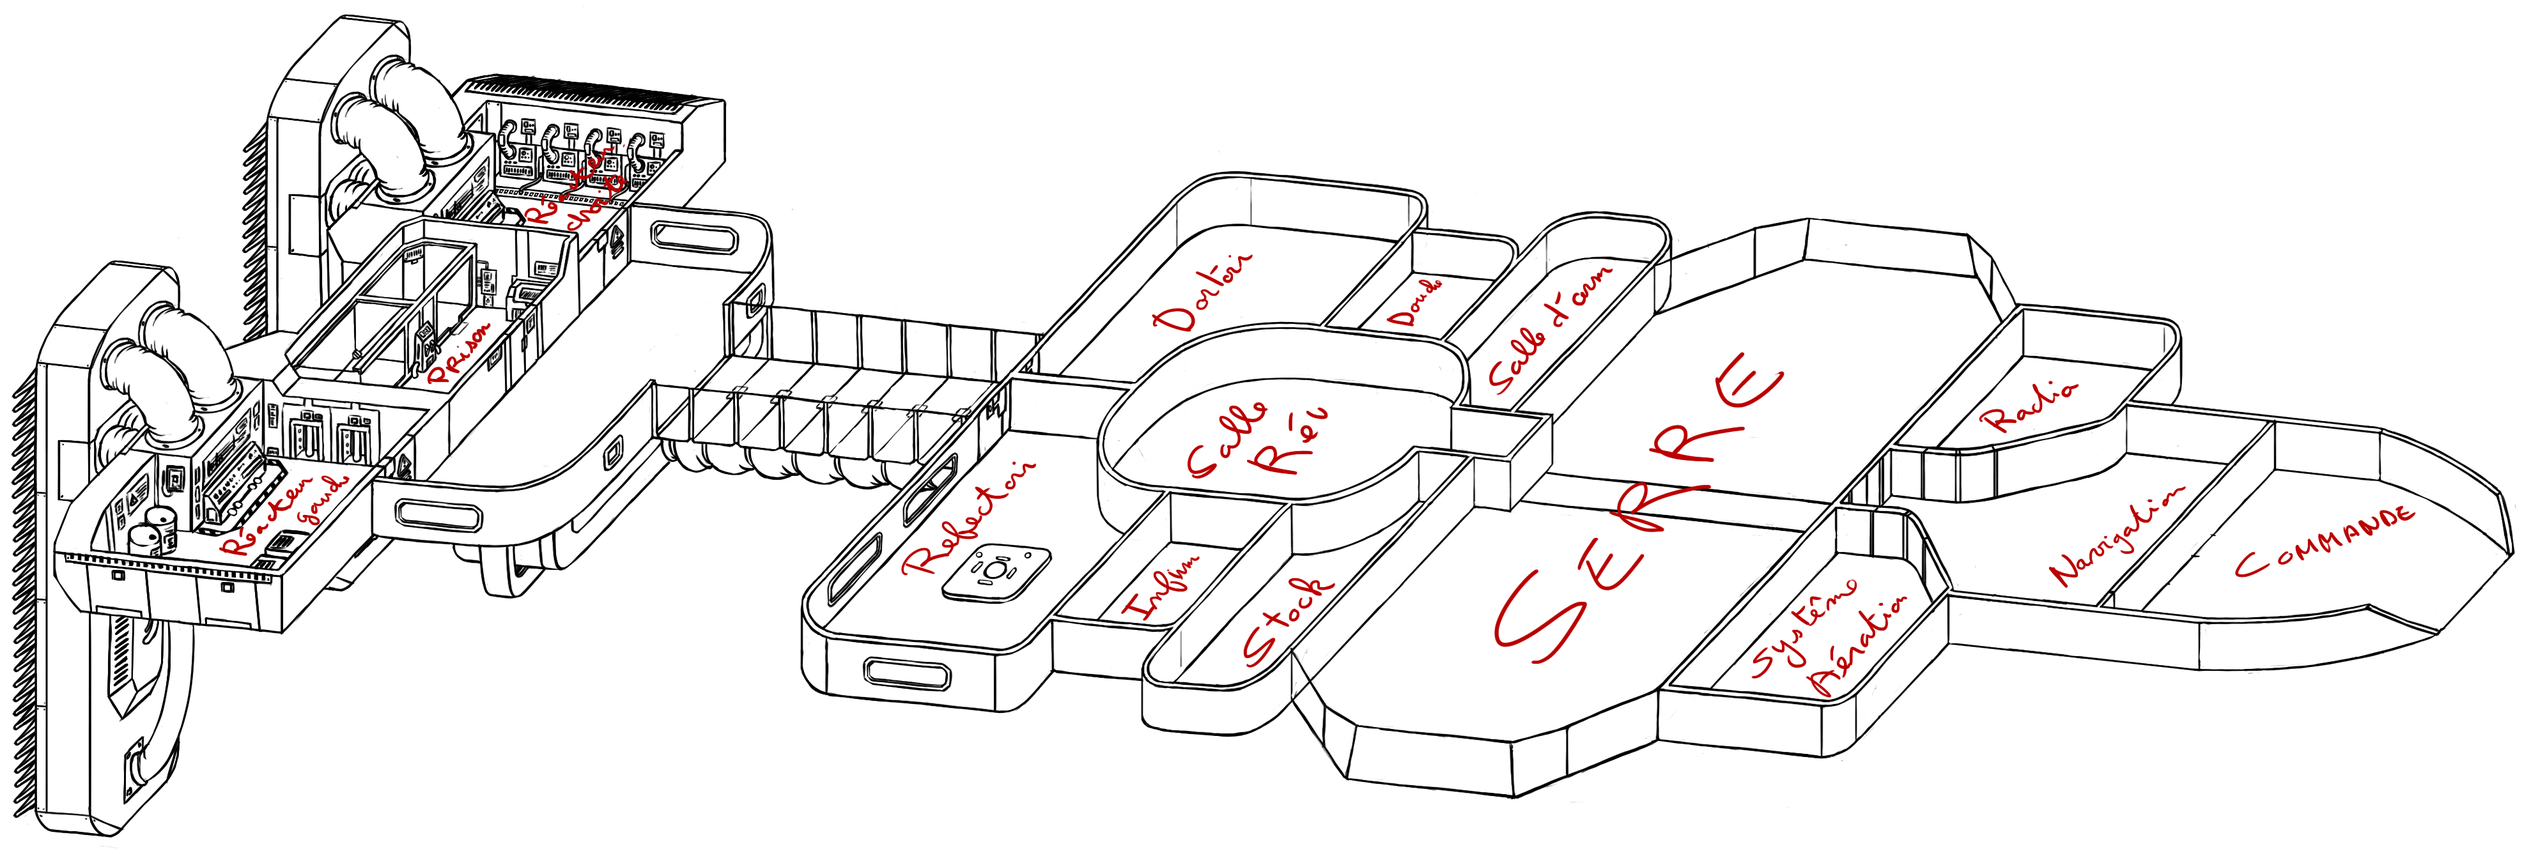
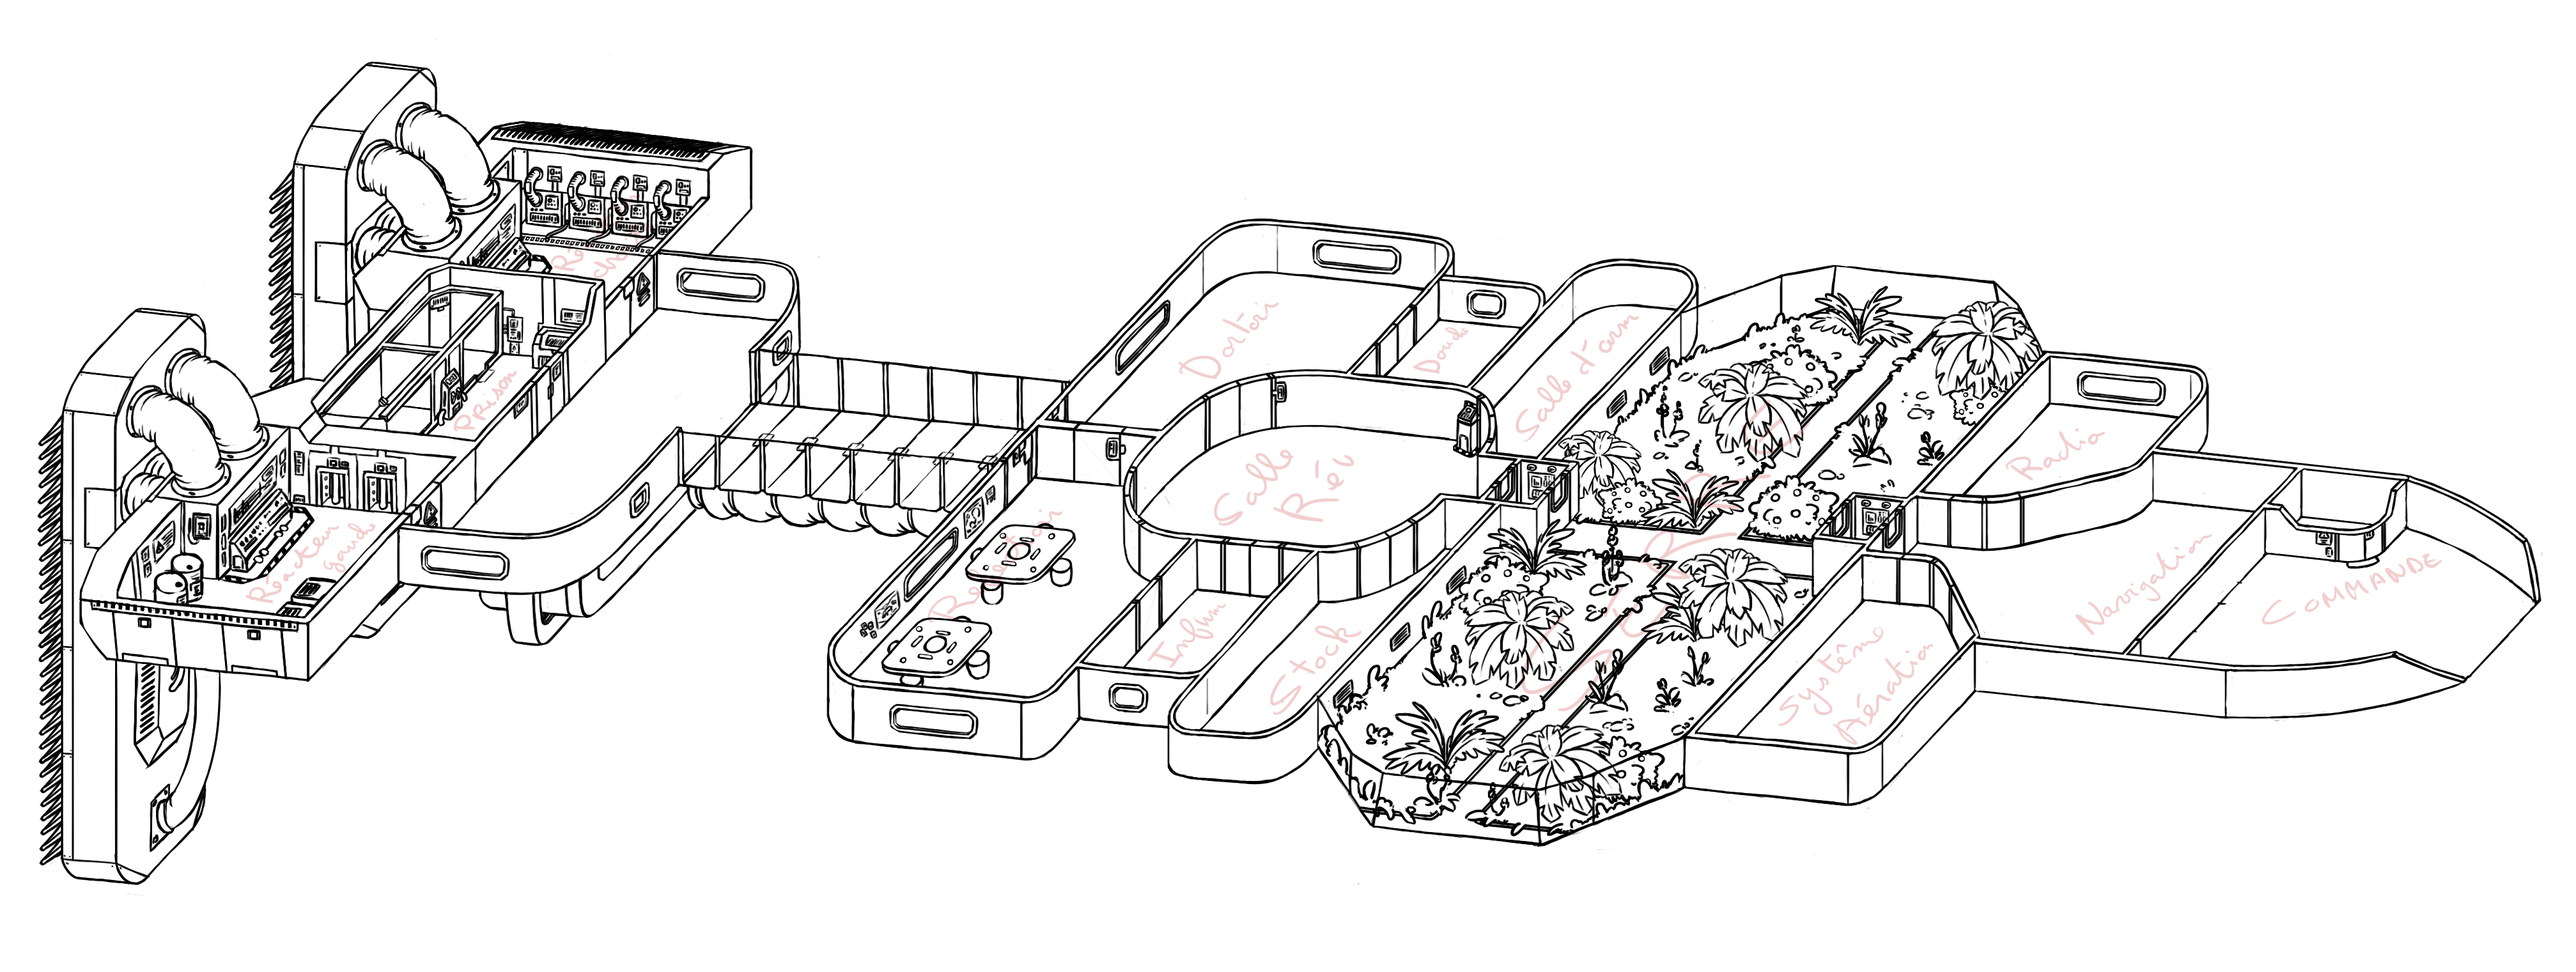
Updated map, and new crop layout

Changed region(s): [[0.0, 0.0611, 0.9939, 0.9769], [0.528, 0.8853, 0.5591, 0.9159], [0.1242, 0.0, 0.1553, 0.0305]]

diff --git a/code/bits/client/ShipEntity.cc b/code/bits/client/ShipEntity.cc
@@ -19,21 +19,21 @@ namespace {
   };
 
   std::map<ggj::PlaceType, PlaceLocation> placeLocations = {
-    { ggj::PlaceType::Armory,              { gf::RectF::fromPositionSize({ 2450.0f, 350.0f }, { 100.0f, 100.0f }), { 2450.0f, 350.0f }, { 100.0f, 100.0f }, { 2450.0f, 350.0f }, ggj::placeTypeString(ggj::PlaceType::Armory)}},
-    { ggj::PlaceType::Bathroom,            { gf::RectF::fromPositionSize({ 2200.0f, 370.0f }, { 100.0f, 100.0f }), { 2200.0f, 370.0f }, { 100.0f, 100.0f }, { 2200.0f, 370.0f }, ggj::placeTypeString(ggj::PlaceType::Bathroom)}},
-    { ggj::PlaceType::CommunicationCenter, { gf::RectF::fromPositionSize({ 3165.0f, 490.0f }, { 100.0f, 100.0f }), { 3165.0f, 490.0f }, { 100.0f, 100.0f }, { 3165.0f, 490.0f }, ggj::placeTypeString(ggj::PlaceType::CommunicationCenter)}},
-    { ggj::PlaceType::Dormitory,           { gf::RectF::fromPositionSize({ 1870.0f, 275.0f }, { 100.0f, 100.0f }), { 1870.0f, 275.0f }, { 100.0f, 100.0f }, { 1870.0f, 275.0f }, ggj::placeTypeString(ggj::PlaceType::Dormitory)}},
-    { ggj::PlaceType::GreenHouse,          { gf::RectF::fromPositionSize({ 2660.0f, 350.0f }, { 100.0f, 100.0f }), { 2660.0f, 350.0f }, { 100.0f, 100.0f }, { 2660.0f, 350.0f }, ggj::placeTypeString(ggj::PlaceType::GreenHouse)}},
-    { ggj::PlaceType::Infirmery,           { gf::RectF::fromPositionSize({ 1820.0f, 770.0f }, { 100.0f, 100.0f }), { 1820.0f, 770.0f }, { 100.0f, 100.0f }, { 1820.0f, 770.0f }, ggj::placeTypeString(ggj::PlaceType::Infirmery)}},
-    { ggj::PlaceType::LeftEngine,          { gf::RectF::fromPositionSize({ 770.0f, 160.0f }, { 100.0f, 100.0f }), { 770.0f, 160.0f }, { 100.0f, 100.0f }, { 770.0f, 160.0f }, ggj::placeTypeString(ggj::PlaceType::LeftEngine)}},
-    { ggj::PlaceType::LifeSupport,         { gf::RectF::fromPositionSize({ 2850.0f, 800.0f }, { 100.0f, 100.0f }), { 2850.0f, 800.0f }, { 100.0f, 100.0f }, { 2850.0f, 800.0f }, ggj::placeTypeString(ggj::PlaceType::LifeSupport)}},
-    { ggj::PlaceType::MainBridge,          { gf::RectF::fromPositionSize({ 3550.0f, 670.0f }, { 100.0f, 100.0f }), { 3550.0f, 670.0f }, { 100.0f, 100.0f }, { 3550.0f, 670.0f }, ggj::placeTypeString(ggj::PlaceType::MainBridge)}},
-    { ggj::PlaceType::MidEngine,           { gf::RectF::fromPositionSize({ 3700.0f, 700.0f }, { 100.0f, 100.0f }), { 3700.0f, 700.0f }, { 100.0f, 100.0f }, { 3700.0f, 700.0f }, ggj::placeTypeString(ggj::PlaceType::MidEngine)}},
-    { ggj::PlaceType::Navigation,          { gf::RectF::fromPositionSize({ 2950.0f, 700.0f }, { 100.0f, 100.0f }), { 2950.0f, 700.0f }, { 100.0f, 100.0f }, { 2950.0f, 700.0f }, ggj::placeTypeString(ggj::PlaceType::Navigation)}},
-    { ggj::PlaceType::Prison,              { gf::RectF::fromPositionSize({ 600.0f, 350.0f }, { 100.0f, 100.0f }), { 600.0f, 350.0f }, { 100.0f, 100.0f }, { 600.0f, 350.0f }, ggj::placeTypeString(ggj::PlaceType::Prison)}},
-    { ggj::PlaceType::Refectory,           { gf::RectF::fromPositionSize({ 1550.0f, 600.0f }, { 100.0f, 100.0f }), { 1550.0f, 600.0f }, { 100.0f, 100.0f }, { 1550.0f, 600.0f }, ggj::placeTypeString(ggj::PlaceType::Refectory)}},
-    { ggj::PlaceType::RightEngine,         { gf::RectF::fromPositionSize({ 310.0f, 600.0f }, { 100.0f, 100.0f }), { 310.0f, 600.0f }, { 100.0f, 100.0f }, { 310.0f, 600.0f }, ggj::placeTypeString(ggj::PlaceType::RightEngine)}},
-    { ggj::PlaceType::Storage,             { gf::RectF::fromPositionSize({ 2000.0f, 770.0f }, { 100.0f, 100.0f }), { 2000.0f, 770.0f }, { 100.0f, 100.0f }, { 2000.0f, 770.0f }, ggj::placeTypeString(ggj::PlaceType::Storage)}},
+    { ggj::PlaceType::Armory,              { gf::RectF::fromPositionSize({ 2500, 425.0f }, { 100.0f, 100.0f }), { 2450.0f, 350.0f }, { 100.0f, 100.0f }, { 2450.0f, 350.0f }, ggj::placeTypeString(ggj::PlaceType::Armory)}},
+    { ggj::PlaceType::Bathroom,            { gf::RectF::fromPositionSize({ 2250.0f, 445.0f }, { 100.0f, 100.0f }), { 2200.0f, 370.0f }, { 100.0f, 100.0f }, { 2200.0f, 370.0f }, ggj::placeTypeString(ggj::PlaceType::Bathroom)}},
+    { ggj::PlaceType::CommunicationCenter, { gf::RectF::fromPositionSize({ 3215.0f, 565.0f }, { 100.0f, 100.0f }), { 3165.0f, 490.0f }, { 100.0f, 100.0f }, { 3165.0f, 490.0f }, ggj::placeTypeString(ggj::PlaceType::CommunicationCenter)}},
+    { ggj::PlaceType::Dormitory,           { gf::RectF::fromPositionSize({ 1920.0f, 350.0f }, { 100.0f, 100.0f }), { 1870.0f, 275.0f }, { 100.0f, 100.0f }, { 1870.0f, 275.0f }, ggj::placeTypeString(ggj::PlaceType::Dormitory)}},
+    { ggj::PlaceType::GreenHouse,          { gf::RectF::fromPositionSize({ 2710.0f, 425.0f }, { 100.0f, 100.0f }), { 2660.0f, 350.0f }, { 100.0f, 100.0f }, { 2660.0f, 350.0f }, ggj::placeTypeString(ggj::PlaceType::GreenHouse)}},
+    { ggj::PlaceType::Infirmery,           { gf::RectF::fromPositionSize({ 1870.0f, 845.0f }, { 100.0f, 100.0f }), { 1820.0f, 770.0f }, { 100.0f, 100.0f }, { 1820.0f, 770.0f }, ggj::placeTypeString(ggj::PlaceType::Infirmery)}},
+    { ggj::PlaceType::LeftEngine,          { gf::RectF::fromPositionSize({ 820.0f, 235.0f }, { 100.0f, 100.0f }), { 770.0f, 160.0f }, { 100.0f, 100.0f }, { 770.0f, 160.0f }, ggj::placeTypeString(ggj::PlaceType::LeftEngine)}},
+    { ggj::PlaceType::LifeSupport,         { gf::RectF::fromPositionSize({ 2900.0f, 875.0f }, { 100.0f, 100.0f }), { 2850.0f, 800.0f }, { 100.0f, 100.0f }, { 2850.0f, 800.0f }, ggj::placeTypeString(ggj::PlaceType::LifeSupport)}},
+    { ggj::PlaceType::MainBridge,           { gf::RectF::fromPositionSize({ 3750.0f, 775.0f }, { 100.0f, 100.0f }), { 3700.0f, 700.0f }, { 100.0f, 100.0f }, { 3700.0f, 700.0f }, ggj::placeTypeString(ggj::PlaceType::MainBridge)}},
+    { ggj::PlaceType::MidEngine,          { gf::RectF::fromPositionSize({ 3600.0f, 670.0f }, { 100.0f, 100.0f }), { 3550.0f, 670.0f }, { 100.0f, 100.0f }, { 3550.0f, 670.0f }, ggj::placeTypeString(ggj::PlaceType::MidEngine)}},
+    { ggj::PlaceType::Navigation,          { gf::RectF::fromPositionSize({ 3000.0f, 775.0f }, { 100.0f, 100.0f }), { 2950.0f, 700.0f }, { 100.0f, 100.0f }, { 2950.0f, 700.0f }, ggj::placeTypeString(ggj::PlaceType::Navigation)}},
+    { ggj::PlaceType::Prison,              { gf::RectF::fromPositionSize({ 650.0f, 425.0f }, { 100.0f, 100.0f }), { 600.0f, 350.0f }, { 100.0f, 100.0f }, { 600.0f, 350.0f }, ggj::placeTypeString(ggj::PlaceType::Prison)}},
+    { ggj::PlaceType::Refectory,           { gf::RectF::fromPositionSize({ 1600.0f, 675.0f }, { 100.0f, 100.0f }), { 1550.0f, 600.0f }, { 100.0f, 100.0f }, { 1550.0f, 600.0f }, ggj::placeTypeString(ggj::PlaceType::Refectory)}},
+    { ggj::PlaceType::RightEngine,         { gf::RectF::fromPositionSize({ 360.0f, 675.0f }, { 100.0f, 100.0f }), { 310.0f, 600.0f }, { 100.0f, 100.0f }, { 310.0f, 600.0f }, ggj::placeTypeString(ggj::PlaceType::RightEngine)}},
+    { ggj::PlaceType::Storage,             { gf::RectF::fromPositionSize({ 2050.0f, 845.0f }, { 100.0f, 100.0f }), { 2000.0f, 770.0f }, { 100.0f, 100.0f }, { 2000.0f, 770.0f }, ggj::placeTypeString(ggj::PlaceType::Storage)}},
   };
 }
 
